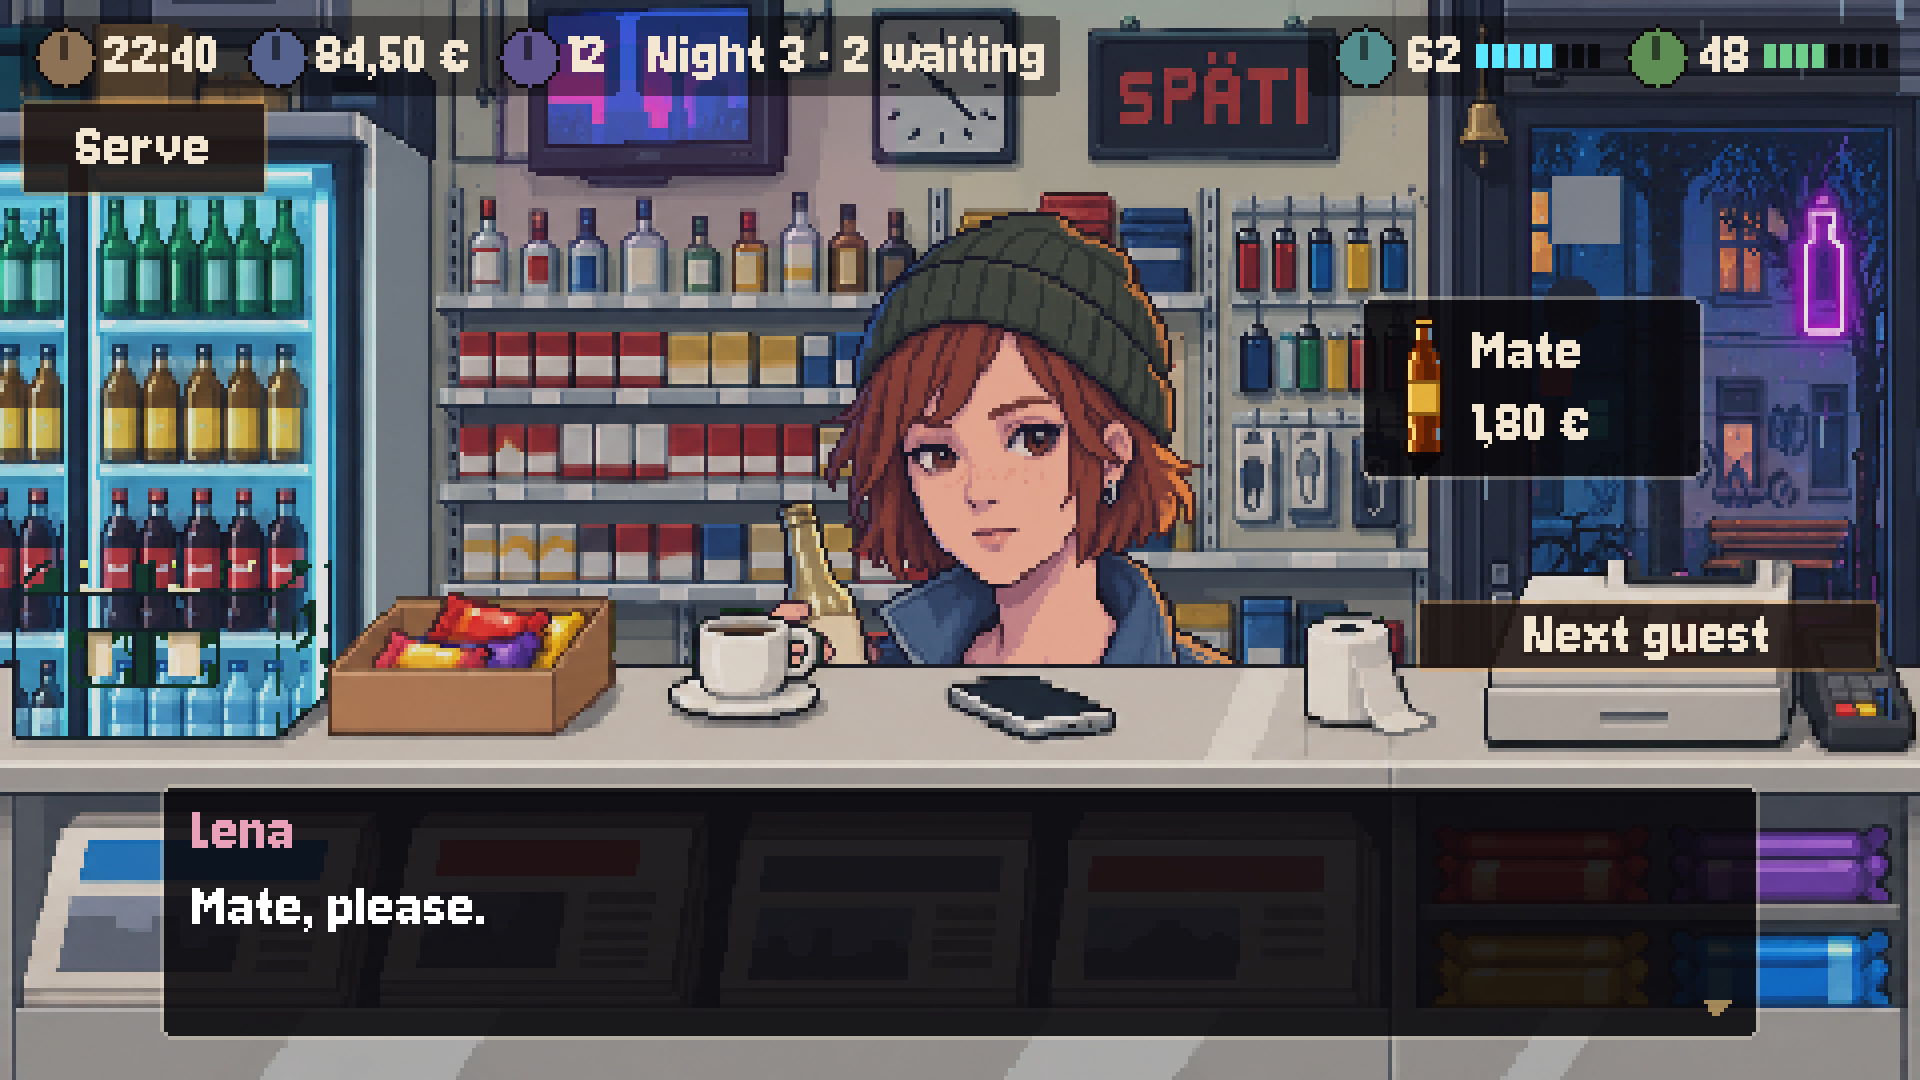
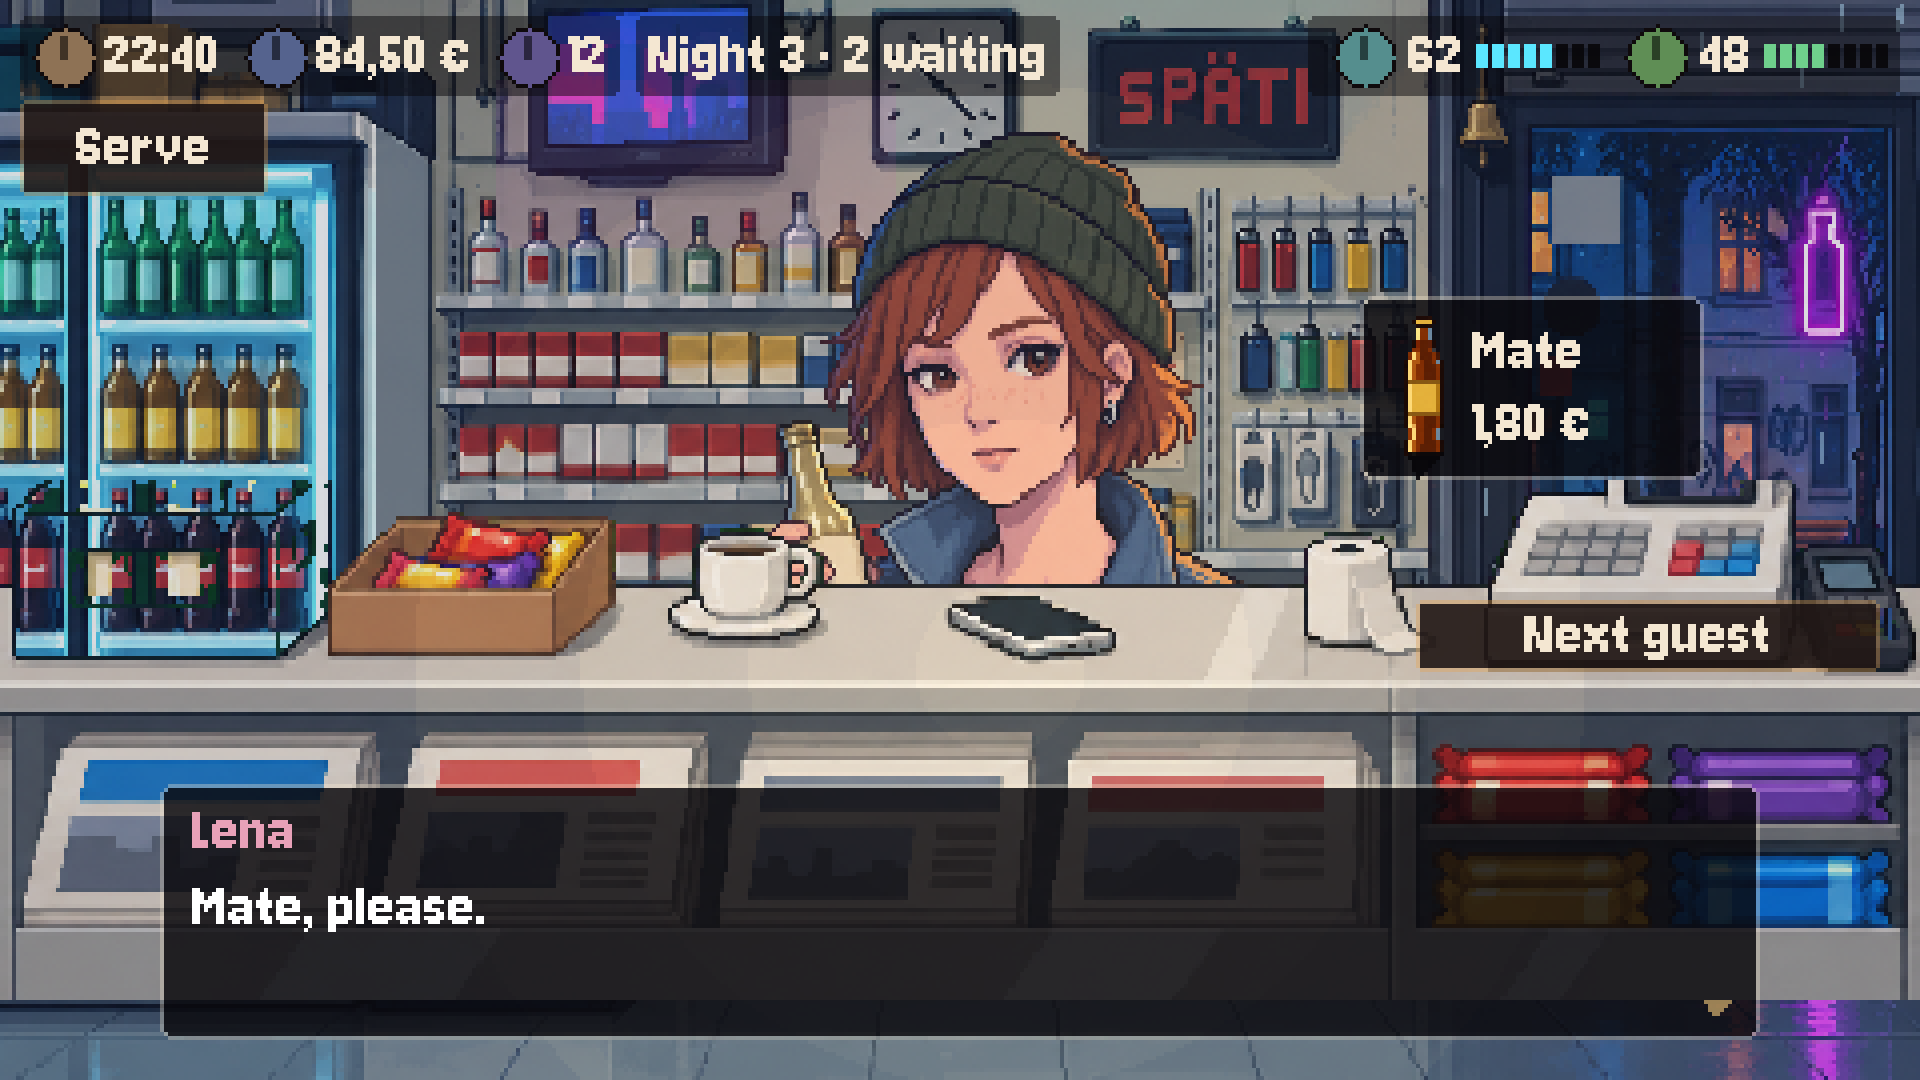
docs: round-3 ledger, counter lift in the framing table, gallery on round-3 frames

diff --git a/docs/03-build-log.md b/docs/03-build-log.md
@@ -1142,3 +1142,4 @@ conversation is open — and the log rows now carry `queue` and `talking`.
 - **00:41 — v3 verdict 74** (composition 62→72, ui 63→73, pixel 76→81, Berlin 84→89; palette 65, character 74). Remaining: character grounding, counter visibility, lighting depth. **Round 2 (code-side, 00:50):** every bust re-snapped to **144×174** (the OG framing table's ~145 px; heads were 36 % of the frame, now ~27 %, the bottle hand shows above the counter), dialogue panel ~75 px (3-px padding, flat rows with no vertical padding), HUD plates inset 5/4, Serve toggle shown only when serving is legal (or the panel is open), bubble price in full text colour. 99/99. v4 judging.
 - **01:06 — astra stalls are not quota:** the v4 judge stalled three times at 420 s (each rollout: five messages, one reasoning item, then silence); the account's rate-limit snapshot shows 23 % of the weekly window, no secondary limit, no spend control; a text-only astra probe answers in 4 s. So the stall is specific to vision requests at effort `high` with the strict output schema. Probing the same judge at effort `medium`. Meanwhile the Claude review → verify → fix fleet (Opus, three lenses: engine / scenes / docs-vs-code) is running on the tree; the orchestrator commits its result.
 - **01:20 — the stall is the strict output schema on astra.** Same lean payload: with `--output-schema` four astra runs stalled (420/420/420/300 s); without it (`--no-schema`, shape given in the prompt) astra answered in 42 s. A single-image no-schema probe: 8 s; sol with the schema: 30 s. `judge.mjs` gained `--no-schema` plus a key normaliser. **Two verdicts on v4 (bust 144×174):** sol 76 (composition 82 · palette 68 · pixel 79 · character 78 · ui 61 · Berlin 91); astra 70 (composition 66 — "Lena looks submerged behind the counter": the smaller bust sinks its shoulders and bottle hand behind the cut; palette 63; ui 62). Both: warm interior light missing (flat cold tint), HUD reads as RPG status bars, panel heavy. Astra also: the porcelain cup + saucer on the counter is café-coded — replace with a takeaway cup (counter regen).
+- **01:45 — round 3 (code-side):** the flat time-of-night tint became a SHAPED light (`light_pool.gdshader`: a warm fluorescent pool over the counter and the customer falling off in 4 stepped bands into the cool night at the fridge and the door; six Palette tokens by night phase). Found the real "submerged" cause: the r6 counter strip's top 37 rows are wall, so flush-with-the-bottom put the laminate edge at y 177 and left a 4-px countertop sliver above the choice panel → `Palette.COUNTER_LIFT = 20` raises the layer; the band is now ~24 px, the props ride up, and the bust seats at its natural top (shoulders, forearm, bottle hand above the cut). HUD `set_focus`: during a talk or a story beat only the clock and the night/queue line stay (both judges: "RPG status bars"). Panel alpha 0.88 → 0.82. `judge.mjs`: astra defaults to `--no-schema`. 99/99. v5 judging.

diff --git a/docs/02-art-pipeline.md b/docs/02-art-pipeline.md
@@ -42,6 +42,7 @@ shop behind. Proportions in base pixels (480×270), read straight off the refere
 | Element | Reference | Base-grid target |
 |---|---|---|
 | Counter top edge | 78–79 % of height | **y ≈ 210–213**; the band below it is plain wood, so a taller counter asset is simply anchored to the bottom and clipped |
+| *(2026-09-13)* | | The counter layer hangs `Palette.COUNTER_LIFT` (20 px) above the bottom of the frame: the r6 strip carries 37 rows of wall above its laminate edge, and flush-with-the-bottom hid the countertop under the dialogue panel. Its lowest rows are under the panel anyway. |
 | Counter objects | cup at 30 % x, phone at 50 % x, sitting *on* the edge | cup x≈145, phone x≈240, both just below the edge |
 | Character bust | centred at 52 % x; hair top at ~10 %; shoulders ~30 % wide; cut by the counter at the chest/hip line | centre **x≈250**, hair top **y≈24–30**, ~145 px wide; the portrait's bottom 25–35 px sit *behind* the counter layer |
 | *(2026-09-13)* | | **Busts are snapped to 144×174** (the ~145 px above). They were 190×230 until the judge scored the composed frame: "an enlarged portrait behind a narrow ledge" — the head was 36 % of the frame height against Coffee Talk's ~25 %. Same raws, re-snapped with `art.mjs --reuse-raw`; the head is now ~27 % and the bottle hand shows above the counter. |

diff --git a/docs/gallery/README.md b/docs/gallery/README.md
@@ -2,7 +2,7 @@
 
 | File | What | Judge |
 |---|---|---|
-| night-dialogue_choice.png | Hero screen: Lena at the counter of the real-Späti set (backdrop r5, counter r6), the two choices inside the dialogue panel, bust at the target size (144×174) | 71 → 74 after round 1 (choices inside the panel, three HUD plates); round 2 (bust size, 75-px panel, inset HUD) judging |
+| night-dialogue_choice.png | Hero screen: Lena at the counter of the real-Späti set (backdrop r5, counter r6), the two choices inside the dialogue panel, bust at the target size (144×174) | astra 71 → 74 (round 1: choices inside the panel, three HUD plates) → 70/74 (round 2: bust 144×174 — "submerged"); round 3 (shaped light pool, counter lifted, minimal HUD in conversation) judging |
 | night-customer_at_counter.png | Order stage: Lena asks for a Mate (bubble), Serve toggle and Next guest on offer, no conversation open | — |
 | night-talk_result.png | After a Schnauze check: d20 14 + 2 = 16 vs 12 → success; Lena switches to her WARM expression (the per-node expression drives the Portrait); the queue shows Jürgen next | — |
 | night-queue_waiting.png | The line: three guests waiting, stats strip (Muscle…Schnauze), Next guest | — |
